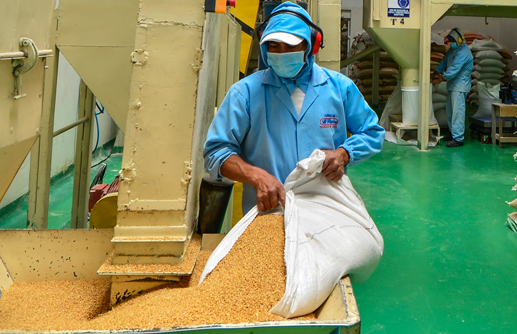
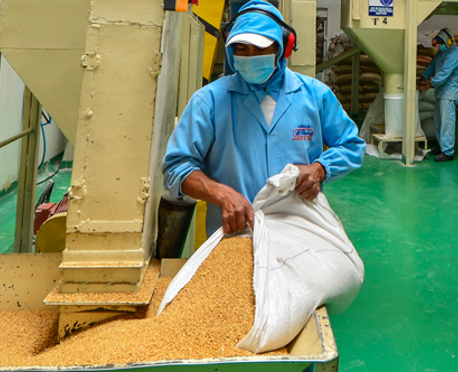
Mision

diff --git a/css/institucional.css b/css/institucional.css
@@ -18,7 +18,7 @@ html,body{
 	position: relative;
 	height: 75%;
 	width: 100%;
-	margin-top: 180px;
+	margin-top: 150px;
 }
 
 .row{
@@ -31,18 +31,18 @@ html,body{
 	top: 0;
     background-image: url('../images/logoPortada.png');
     background-size: 100% 100%;
-    height: 225px;
+    height: 40%;
     width: 100%;
     z-index: 1; /* Sit on top */
 }
 
 .principal-mision-slider{
-	height: 65%;
+	height: 70%;
 	padding: 0px;
 }
 
 .principal-mision-buttons{
-	height: 25%;
+	height: 20%;
 	background-color: #f07d1d;
 }
 
@@ -109,7 +109,7 @@ img {
 }
 
 .btn-custom{
-	width: 100px;
+	width: 80px;
 	margin-right: 10px;
     height: 50px;
     font-size: 32px;
@@ -130,6 +130,12 @@ img {
 	text-decoration: none; /* no underline */
 	color:#f44336;
 	font-weight: bold;
+}
+
+.photo_one{
+    background-image: url("../images/mision/Foto4_mobil.png");
+    height: 100%;
+    width: 100%;
 }
 
 /* Extra Small Devices, Phones */ 

diff --git a/css/empresa.css b/css/empresa.css
@@ -50,11 +50,21 @@ html,body{
 .btn-mision,.btn-vision,.btn-historia{
     width: 150px;
     margin: 5px;
-    height: 50px;
+    height: 60px;
+    padding: 15px 32px;
+}
+
+.btn-custom{
+    width: 150px;
+    height: 60px;
 }
 
 .modal-lg{
     width: 500px;
+}
+
+.photo_one{
+    background-image: url("../images/mision/Foto4_mobil.png");
 }
 
 @media only screen and (min-width : 768px){
